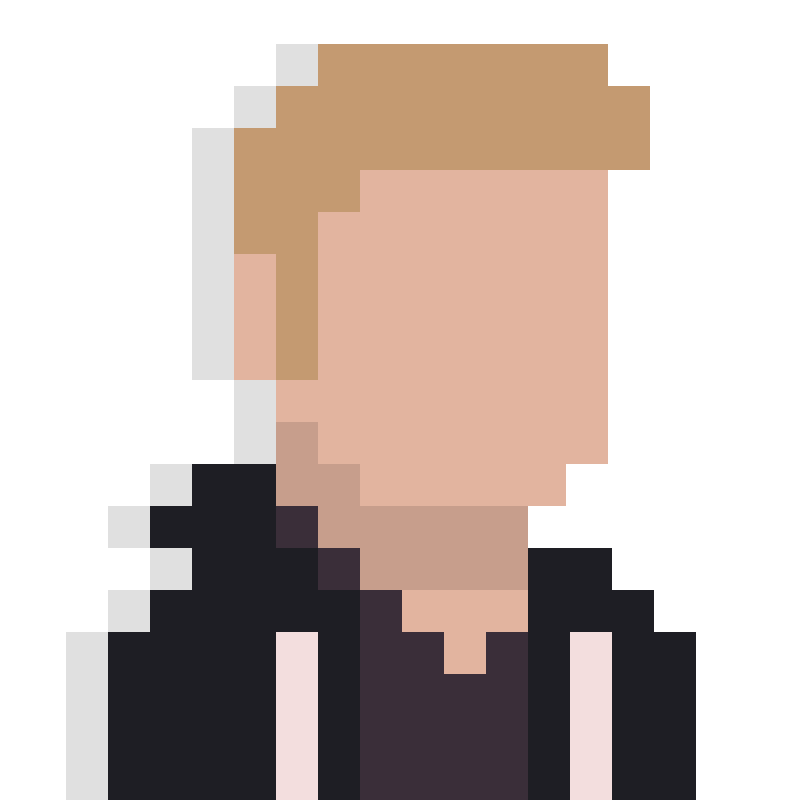
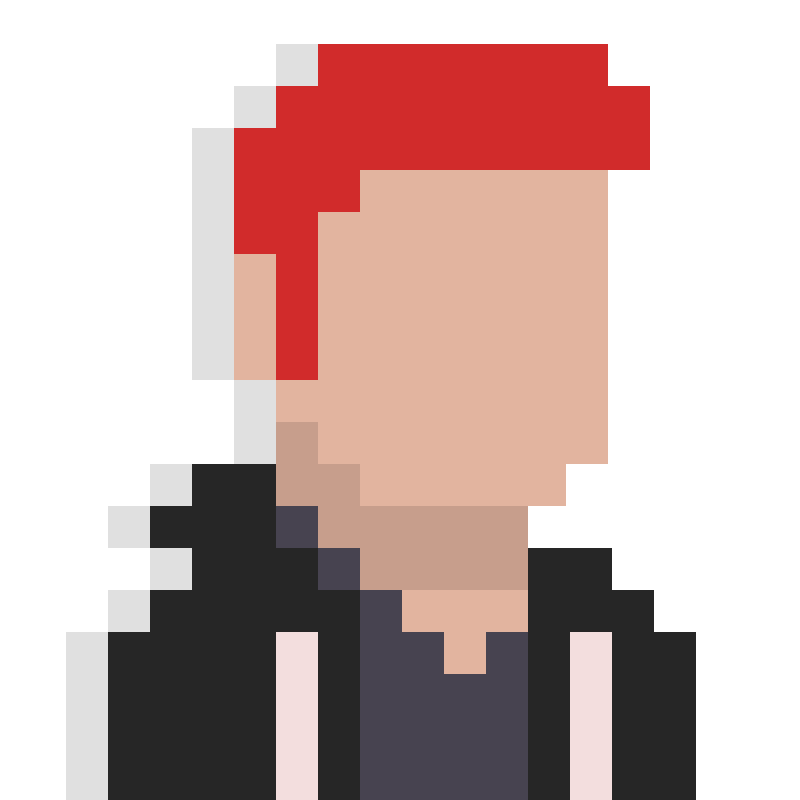
Change color pallette.

Changed region(s): [[0.2812, 0.0312, 0.8125, 0.5]]

diff --git a/style.min.css b/style.min.css
@@ -1,1 +1,1 @@
-@-webkit-keyframes walk{0%{transform:translateY(0)}100%{transform:translateY(6px)}}@keyframes walk{0%{transform:translateY(0)}100%{transform:translateY(6px)}}*{margin:0;padding:0;box-sizing:border-box}html,body{background-color:#FC8362;max-height:100vh}body{overflow:hidden;color:#3A2E39;font-family:"Hind Siliguri",sans-serif;display:flex;flex-direction:column}a{color:inherit;text-decoration:none}header{display:flex;padding:10px 23px;margin:20px 30px 0px 30px;text-transform:uppercase}header h1{padding:0 10px;font-size:1.8rem;border-bottom:1px solid rgba(57,46,56,0.9)}header nav{margin-left:auto;display:flex}header nav a:hover{text-decoration:underline}header li{display:inline-block;padding:8px;font-size:.8rem}section{flex:6;display:flex;flex-direction:column;align-items:flex-end;justify-content:center;overflow:hidden}section h1{font-size:6.5rem;line-height:1;text-align:right;padding:60px;white-space:nowrap}#avatar{position:absolute;left:0;bottom:0;width:450px;height:450px;-webkit-animation:walk .83s infinite alternate;animation:walk .83s infinite alternate}#avatar img{width:100%;height:100%}footer{flex:1}@media only screen and (min-width: 2744px){header h1{font-size:3.5rem}header li{font-size:1.5rem}section h1{font-size:11rem}#avatar{width:700px;height:700px}}@media only screen and (max-width: 2744px){header h1{font-size:3.2rem}header li{font-size:1.4rem}section h1{font-size:9rem}}@media only screen and (max-width: 2146px){header h1{font-size:2.5rem}header li{font-size:1.2rem}}@media only screen and (max-width: 1574px){section h1{font-size:5.5rem}header h1{font-size:2rem}header li{font-size:1.1rem}}@media only screen and (max-width: 1215px){#avatar{width:350px;height:350px}}@media only screen and (max-width: 1070px){section h1{font-size:4.5rem}#avatar{width:250px;height:250px}}@media only screen and (max-width: 815px){header h1{font-size:1.3rem}header li{font-size:.7rem}section h1{font-size:3.5rem}}@media only screen and (max-width: 706px){section h1{font-size:3rem}#avatar{width:200px;height:200px}}@media only screen and (max-width: 706px){section h1{font-size:4rem;padding-right:17px}#avatar{width:300px;height:300px}}@media only screen and (max-width: 545px){section h1{font-size:3.5rem}}@media only screen and (max-width: 477px){header{flex-direction:column;text-align:center;margin:30px 80px 0px 80px}header h1{font-size:1.8rem}header nav{margin:0 auto}section h1{font-size:3rem}#avatar{width:250px;height:250px}}@media only screen and (max-width: 443px){header{margin:0}header h1{border-bottom:none;margin-top:30px}section{flex:3}section h1{font-size:2.5rem}#avatar{width:250px;height:250px}}@media only screen and (max-width: 375px){section h1{font-size:2rem}#avatar{width:200px;height:200px}}@media only screen and (max-width: 312px){section h1{font-size:1.7rem}#avatar{width:150px;height:150px}}@media only screen and (max-width: 279px){header h1{white-space:nowrap}section h1{font-size:1.5rem}#avatar{width:120px;height:120px}}
+@-webkit-keyframes walk{0%{transform:translateY(0)}100%{transform:translateY(6px)}}@keyframes walk{0%{transform:translateY(0)}100%{transform:translateY(6px)}}*{margin:0;padding:0;box-sizing:border-box}html,body{background-color:#F05D5E;max-height:100vh}body{overflow:hidden;color:#262626;font-family:"Hind Siliguri",sans-serif;display:flex;flex-direction:column}a{color:inherit;text-decoration:none}header{display:flex;padding:10px 23px;margin:20px 30px 0px 30px;text-transform:uppercase}header h1{padding:0 10px;font-size:1.8rem;border-bottom:1px solid rgba(57,46,56,0.9)}header nav{margin-left:auto;display:flex}header nav a:hover{text-decoration:underline}header li{display:inline-block;padding:8px;font-size:.8rem}section{flex:6;display:flex;flex-direction:column;align-items:flex-end;justify-content:center;overflow:hidden}section h1{font-size:6.5rem;line-height:1;text-align:right;padding:60px;white-space:nowrap}#avatar{position:absolute;left:0;bottom:0;width:450px;height:450px;-webkit-animation:walk .83s infinite alternate;animation:walk .83s infinite alternate}#avatar img{width:100%;height:100%}footer{flex:1}@media only screen and (min-width: 2744px){header h1{font-size:3.5rem}header li{font-size:1.5rem}section h1{font-size:11rem}#avatar{width:700px;height:700px}}@media only screen and (max-width: 2744px){header h1{font-size:3.2rem}header li{font-size:1.4rem}section h1{font-size:9rem}}@media only screen and (max-width: 2146px){header h1{font-size:2.5rem}header li{font-size:1.2rem}}@media only screen and (max-width: 1574px){section h1{font-size:5.5rem}header h1{font-size:2rem}header li{font-size:1.1rem}}@media only screen and (max-width: 1215px){#avatar{width:350px;height:350px}}@media only screen and (max-width: 1070px){section h1{font-size:4.5rem}#avatar{width:250px;height:250px}}@media only screen and (max-width: 815px){header h1{font-size:1.3rem}header li{font-size:.7rem}section h1{font-size:3.5rem}}@media only screen and (max-width: 706px){section h1{font-size:3rem}#avatar{width:200px;height:200px}}@media only screen and (max-width: 706px){section h1{font-size:4rem;padding-right:17px}#avatar{width:300px;height:300px}}@media only screen and (max-width: 545px){section h1{font-size:3.5rem}}@media only screen and (max-width: 477px){header{flex-direction:column;text-align:center;margin:30px 80px 0px 80px}header h1{font-size:1.8rem}header nav{margin:0 auto}section h1{font-size:3rem}#avatar{width:250px;height:250px}}@media only screen and (max-width: 443px){header{margin:0}header h1{border-bottom:none;margin-top:30px}section{flex:3}section h1{font-size:2.5rem}#avatar{width:250px;height:250px}}@media only screen and (max-width: 375px){section h1{font-size:2rem}#avatar{width:200px;height:200px}}@media only screen and (max-width: 312px){section h1{font-size:1.7rem}#avatar{width:150px;height:150px}}@media only screen and (max-width: 279px){header h1{white-space:nowrap}section h1{font-size:1.5rem}#avatar{width:120px;height:120px}}

diff --git a/apps/style.min.css b/apps/style.min.css
@@ -1,1 +1,1 @@
-@-webkit-keyframes walk{0%{transform:translateY(0)}100%{transform:translateY(6px)}}@keyframes walk{0%{transform:translateY(0)}100%{transform:translateY(6px)}}*{margin:0;padding:0;box-sizing:border-box}html{background-color:#FC8362}body{height:100vh;overflow:hidden;background-color:#FC8362;color:#3A2E39;font-family:"Hind Siliguri",sans-serif;display:flex;flex-direction:column}a{color:inherit;text-decoration:none}header{display:flex;padding:10px 23px;margin:20px 30px 0px 30px;text-transform:uppercase}header h1{padding:0 10px;font-size:1.8rem;border-bottom:1px solid rgba(57,46,56,0.9)}header nav{margin-left:auto;display:flex}header nav a:hover{text-decoration:underline}header li{display:inline-block;padding:8px;font-size:.8rem}section{flex:6;display:flex;flex-direction:column;align-items:flex-end;justify-content:center;overflow:hidden}section a:hover{text-decoration:underline;list-style:circle}section h1{font-size:3rem;text-align:right;padding-right:60px;white-space:nowrap;line-height:1.5;font-weight:600}#avatar{position:absolute;left:0;bottom:0;width:450px;height:450px;-webkit-animation:walk .83s infinite alternate;animation:walk .83s infinite alternate}#avatar img{width:100%;height:100%}footer{flex:2}@media only screen and (min-width: 2744px){header h1{font-size:3.5rem}header li{font-size:1.5rem}#avatar{width:700px;height:700px}}@media only screen and (max-width: 2744px){header h1{font-size:3.2rem}header li{font-size:1.4rem}}@media only screen and (max-width: 2146px){header h1{font-size:2.5rem}header li{font-size:1.2rem}}@media only screen and (max-width: 1574px){header h1{font-size:2rem}header li{font-size:1.1rem}}@media only screen and (max-width: 1215px){#avatar{width:350px;height:350px}}@media only screen and (max-width: 1070px){section h1{font-size:2rem}#avatar{width:250px;height:250px}}@media only screen and (max-width: 815px){header h1{font-size:1.3rem}header li{font-size:.7rem}}@media only screen and (max-width: 706px){#avatar{width:200px;height:200px}}@media only screen and (max-width: 706px){section h1{padding-right:17px}#avatar{width:300px;height:300px}}@media only screen and (max-width: 477px){header{flex-direction:column;text-align:center;margin:30px 80px 0px 80px}header h1{font-size:1.8rem}header nav{margin:0 auto}#avatar{width:250px;height:250px}}@media only screen and (max-width: 443px){header{margin:0}header h1{border-bottom:none;margin-top:30px}#avatar{width:250px;height:250px}}@media only screen and (max-width: 375px){#avatar{width:200px;height:200px}}@media only screen and (max-width: 312px){#avatar{width:150px;height:150px}}@media only screen and (max-width: 279px){header h1{white-space:nowrap}#avatar{width:120px;height:120px}}
+@-webkit-keyframes walk{0%{transform:translateY(0)}100%{transform:translateY(6px)}}@keyframes walk{0%{transform:translateY(0)}100%{transform:translateY(6px)}}*{margin:0;padding:0;box-sizing:border-box}html{background-color:#F05D5E}body{height:100vh;overflow:hidden;background-color:#F05D5E;color:#262626;font-family:"Hind Siliguri",sans-serif;display:flex;flex-direction:column}a{color:inherit;text-decoration:none}header{display:flex;padding:10px 23px;margin:20px 30px 0px 30px;text-transform:uppercase}header h1{padding:0 10px;font-size:1.8rem;border-bottom:1px solid rgba(57,46,56,0.9)}header nav{margin-left:auto;display:flex}header nav a:hover{text-decoration:underline}header li{display:inline-block;padding:8px;font-size:.8rem}section{flex:6;display:flex;flex-direction:column;align-items:flex-end;justify-content:center;overflow:hidden}section a:hover{text-decoration:underline;list-style:circle}section h1{font-size:3rem;text-align:right;padding-right:60px;white-space:nowrap;line-height:1.5;font-weight:600}#avatar{position:absolute;left:0;bottom:0;width:450px;height:450px;-webkit-animation:walk .83s infinite alternate;animation:walk .83s infinite alternate}#avatar img{width:100%;height:100%}footer{flex:2}@media only screen and (min-width: 2744px){header h1{font-size:3.5rem}header li{font-size:1.5rem}#avatar{width:700px;height:700px}}@media only screen and (max-width: 2744px){header h1{font-size:3.2rem}header li{font-size:1.4rem}}@media only screen and (max-width: 2146px){header h1{font-size:2.5rem}header li{font-size:1.2rem}}@media only screen and (max-width: 1574px){header h1{font-size:2rem}header li{font-size:1.1rem}}@media only screen and (max-width: 1215px){#avatar{width:350px;height:350px}}@media only screen and (max-width: 1070px){section h1{font-size:2rem}#avatar{width:250px;height:250px}}@media only screen and (max-width: 815px){header h1{font-size:1.3rem}header li{font-size:.7rem}}@media only screen and (max-width: 706px){#avatar{width:200px;height:200px}}@media only screen and (max-width: 706px){section h1{padding-right:17px}#avatar{width:300px;height:300px}}@media only screen and (max-width: 477px){header{flex-direction:column;text-align:center;margin:30px 80px 0px 80px}header h1{font-size:1.8rem}header nav{margin:0 auto}#avatar{width:250px;height:250px}}@media only screen and (max-width: 443px){header{margin:0}header h1{border-bottom:none;margin-top:30px}#avatar{width:250px;height:250px}}@media only screen and (max-width: 375px){#avatar{width:200px;height:200px}}@media only screen and (max-width: 312px){#avatar{width:150px;height:150px}}@media only screen and (max-width: 279px){header h1{white-space:nowrap}#avatar{width:120px;height:120px}}

diff --git a/websites/style.min.css b/websites/style.min.css
@@ -1,1 +1,1 @@
-@-webkit-keyframes walk{0%{transform:translateY(0)}100%{transform:translateY(6px)}}@keyframes walk{0%{transform:translateY(0)}100%{transform:translateY(6px)}}*{margin:0;padding:0;box-sizing:border-box}html{background-color:#FC8362}body{height:100vh;overflow:hidden;background-color:#FC8362;color:#3A2E39;font-family:"Hind Siliguri",sans-serif;display:flex;flex-direction:column}a{color:inherit;text-decoration:none}header{display:flex;padding:10px 23px;margin:20px 30px 0px 30px;text-transform:uppercase}header h1{padding:0 10px;font-size:1.8rem;border-bottom:1px solid rgba(57,46,56,0.9)}header nav{margin-left:auto;display:flex}header nav a:hover{text-decoration:underline}header li{display:inline-block;padding:8px;font-size:.8rem}section{flex:6;display:flex;flex-direction:column;align-items:flex-end;justify-content:center;overflow:hidden}section a:hover{text-decoration:underline;list-style:circle}section h1{font-size:3rem;text-align:right;padding-right:60px;white-space:nowrap;line-height:1.5;font-weight:600}#avatar{position:absolute;left:0;bottom:0;width:450px;height:450px;-webkit-animation:walk .83s infinite alternate;animation:walk .83s infinite alternate}#avatar img{width:100%;height:100%}footer{flex:2}@media only screen and (min-width: 2744px){header h1{font-size:3.5rem}header li{font-size:1.5rem}#avatar{width:700px;height:700px}}@media only screen and (max-width: 2744px){header h1{font-size:3.2rem}header li{font-size:1.4rem}}@media only screen and (max-width: 2146px){header h1{font-size:2.5rem}header li{font-size:1.2rem}}@media only screen and (max-width: 1574px){header h1{font-size:2rem}header li{font-size:1.1rem}}@media only screen and (max-width: 1215px){#avatar{width:350px;height:350px}}@media only screen and (max-width: 1070px){section h1{font-size:2rem}#avatar{width:250px;height:250px}}@media only screen and (max-width: 815px){header h1{font-size:1.3rem}header li{font-size:.7rem}}@media only screen and (max-width: 706px){#avatar{width:200px;height:200px}}@media only screen and (max-width: 706px){section h1{padding-right:17px}#avatar{width:300px;height:300px}}@media only screen and (max-width: 477px){header{flex-direction:column;text-align:center;margin:30px 80px 0px 80px}header h1{font-size:1.8rem}header nav{margin:0 auto}#avatar{width:250px;height:250px}}@media only screen and (max-width: 443px){header{margin:0}header h1{border-bottom:none;margin-top:30px}#avatar{width:250px;height:250px}}@media only screen and (max-width: 375px){#avatar{width:200px;height:200px}}@media only screen and (max-width: 312px){#avatar{width:150px;height:150px}}@media only screen and (max-width: 279px){header h1{white-space:nowrap}#avatar{width:120px;height:120px}}
+@-webkit-keyframes walk{0%{transform:translateY(0)}100%{transform:translateY(6px)}}@keyframes walk{0%{transform:translateY(0)}100%{transform:translateY(6px)}}*{margin:0;padding:0;box-sizing:border-box}html{background-color:#F05D5E}body{height:100vh;overflow:hidden;background-color:#F05D5E;color:#262626;font-family:"Hind Siliguri",sans-serif;display:flex;flex-direction:column}a{color:inherit;text-decoration:none}header{display:flex;padding:10px 23px;margin:20px 30px 0px 30px;text-transform:uppercase}header h1{padding:0 10px;font-size:1.8rem;border-bottom:1px solid rgba(57,46,56,0.9)}header nav{margin-left:auto;display:flex}header nav a:hover{text-decoration:underline}header li{display:inline-block;padding:8px;font-size:.8rem}section{flex:6;display:flex;flex-direction:column;align-items:flex-end;justify-content:center;overflow:hidden}section a:hover{text-decoration:underline;list-style:circle}section h1{font-size:3rem;text-align:right;padding-right:60px;white-space:nowrap;line-height:1.5;font-weight:600}#avatar{position:absolute;left:0;bottom:0;width:450px;height:450px;-webkit-animation:walk .83s infinite alternate;animation:walk .83s infinite alternate}#avatar img{width:100%;height:100%}footer{flex:2}@media only screen and (min-width: 2744px){header h1{font-size:3.5rem}header li{font-size:1.5rem}#avatar{width:700px;height:700px}}@media only screen and (max-width: 2744px){header h1{font-size:3.2rem}header li{font-size:1.4rem}}@media only screen and (max-width: 2146px){header h1{font-size:2.5rem}header li{font-size:1.2rem}}@media only screen and (max-width: 1574px){header h1{font-size:2rem}header li{font-size:1.1rem}}@media only screen and (max-width: 1215px){#avatar{width:350px;height:350px}}@media only screen and (max-width: 1070px){section h1{font-size:2rem}#avatar{width:250px;height:250px}}@media only screen and (max-width: 815px){header h1{font-size:1.3rem}header li{font-size:.7rem}}@media only screen and (max-width: 706px){#avatar{width:200px;height:200px}}@media only screen and (max-width: 706px){section h1{padding-right:17px}#avatar{width:300px;height:300px}}@media only screen and (max-width: 477px){header{flex-direction:column;text-align:center;margin:30px 80px 0px 80px}header h1{font-size:1.8rem}header nav{margin:0 auto}#avatar{width:250px;height:250px}}@media only screen and (max-width: 443px){header{margin:0}header h1{border-bottom:none;margin-top:30px}#avatar{width:250px;height:250px}}@media only screen and (max-width: 375px){#avatar{width:200px;height:200px}}@media only screen and (max-width: 312px){#avatar{width:150px;height:150px}}@media only screen and (max-width: 279px){header h1{white-space:nowrap}#avatar{width:120px;height:120px}}

diff --git a/contact/style.min.css b/contact/style.min.css
@@ -1,1 +1,1 @@
-@-webkit-keyframes walk{0%{transform:translateY(0)}100%{transform:translateY(6px)}}@keyframes walk{0%{transform:translateY(0)}100%{transform:translateY(6px)}}*{margin:0;padding:0;box-sizing:border-box}html{background-color:#FC8362}body{height:100vh;overflow:hidden;background-color:#FC8362;color:#3A2E39;font-family:"Hind Siliguri",sans-serif;display:flex;flex-direction:column}a{color:inherit;text-decoration:none}header{display:flex;padding:10px 23px;margin:20px 30px 0px 30px;text-transform:uppercase}header h1{padding:0 10px;font-size:1.8rem;border-bottom:1px solid rgba(57,46,56,0.9)}header nav{margin-left:auto;display:flex}header nav a:hover{text-decoration:underline}header li{display:inline-block;padding:8px;font-size:.8rem}section{flex:6;display:flex;flex-direction:column;align-items:flex-end;justify-content:center;overflow:hidden}section a:hover{text-decoration:underline}section h1{font-size:3rem;text-align:right;padding-right:60px;white-space:nowrap;line-height:1.5;font-weight:600}#avatar{position:absolute;left:0;bottom:0;width:450px;height:450px;-webkit-animation:walk .83s infinite alternate;animation:walk .83s infinite alternate}#avatar img{width:100%;height:100%}footer{flex:2}@media only screen and (min-width: 2744px){header h1{font-size:3.5rem}header li{font-size:1.5rem}#avatar{width:700px;height:700px}}@media only screen and (max-width: 2744px){header h1{font-size:3.2rem}header li{font-size:1.4rem}}@media only screen and (max-width: 2146px){header h1{font-size:2.5rem}header li{font-size:1.2rem}}@media only screen and (max-width: 1574px){header h1{font-size:2rem}header li{font-size:1.1rem}}@media only screen and (max-width: 1215px){#avatar{width:350px;height:350px}}@media only screen and (max-width: 1070px){section h1{font-size:2rem}#avatar{width:250px;height:250px}}@media only screen and (max-width: 815px){header h1{font-size:1.3rem}header li{font-size:.7rem}}@media only screen and (max-width: 706px){#avatar{width:200px;height:200px}}@media only screen and (max-width: 706px){section h1{padding-right:17px}#avatar{width:300px;height:300px}}@media only screen and (max-width: 477px){header{flex-direction:column;text-align:center;margin:30px 80px 0px 80px}header h1{font-size:1.8rem}header nav{margin:0 auto}#avatar{width:250px;height:250px}}@media only screen and (max-width: 443px){header{margin:0}header h1{border-bottom:none;margin-top:30px}#avatar{width:250px;height:250px}}@media only screen and (max-width: 375px){#avatar{width:200px;height:200px}}@media only screen and (max-width: 312px){#avatar{width:150px;height:150px}}@media only screen and (max-width: 279px){header h1{white-space:nowrap}#avatar{width:120px;height:120px}}
+@-webkit-keyframes walk{0%{transform:translateY(0)}100%{transform:translateY(6px)}}@keyframes walk{0%{transform:translateY(0)}100%{transform:translateY(6px)}}*{margin:0;padding:0;box-sizing:border-box}html{background-color:#F05D5E}body{height:100vh;overflow:hidden;background-color:#F05D5E;color:#262626;font-family:"Hind Siliguri",sans-serif;display:flex;flex-direction:column}a{color:inherit;text-decoration:none}header{display:flex;padding:10px 23px;margin:20px 30px 0px 30px;text-transform:uppercase}header h1{padding:0 10px;font-size:1.8rem;border-bottom:1px solid rgba(57,46,56,0.9)}header nav{margin-left:auto;display:flex}header nav a:hover{text-decoration:underline}header li{display:inline-block;padding:8px;font-size:.8rem}section{flex:6;display:flex;flex-direction:column;align-items:flex-end;justify-content:center;overflow:hidden}section a:hover{text-decoration:underline}section h1{font-size:3rem;text-align:right;padding-right:60px;white-space:nowrap;line-height:1.5;font-weight:600}#avatar{position:absolute;left:0;bottom:0;width:450px;height:450px;-webkit-animation:walk .83s infinite alternate;animation:walk .83s infinite alternate}#avatar img{width:100%;height:100%}footer{flex:2}@media only screen and (min-width: 2744px){header h1{font-size:3.5rem}header li{font-size:1.5rem}#avatar{width:700px;height:700px}}@media only screen and (max-width: 2744px){header h1{font-size:3.2rem}header li{font-size:1.4rem}}@media only screen and (max-width: 2146px){header h1{font-size:2.5rem}header li{font-size:1.2rem}}@media only screen and (max-width: 1574px){header h1{font-size:2rem}header li{font-size:1.1rem}}@media only screen and (max-width: 1215px){#avatar{width:350px;height:350px}}@media only screen and (max-width: 1070px){section h1{font-size:2rem}#avatar{width:250px;height:250px}}@media only screen and (max-width: 815px){header h1{font-size:1.3rem}header li{font-size:.7rem}}@media only screen and (max-width: 706px){#avatar{width:200px;height:200px}}@media only screen and (max-width: 706px){section h1{padding-right:17px}#avatar{width:300px;height:300px}}@media only screen and (max-width: 477px){header{flex-direction:column;text-align:center;margin:30px 80px 0px 80px}header h1{font-size:1.8rem}header nav{margin:0 auto}#avatar{width:250px;height:250px}}@media only screen and (max-width: 443px){header{margin:0}header h1{border-bottom:none;margin-top:30px}#avatar{width:250px;height:250px}}@media only screen and (max-width: 375px){#avatar{width:200px;height:200px}}@media only screen and (max-width: 312px){#avatar{width:150px;height:150px}}@media only screen and (max-width: 279px){header h1{white-space:nowrap}#avatar{width:120px;height:120px}}

diff --git a/photography/style.min.css b/photography/style.min.css
@@ -1,1 +1,1 @@
-@-webkit-keyframes walk{0%{transform:translateY(0)}100%{transform:translateY(6px)}}@keyframes walk{0%{transform:translateY(0)}100%{transform:translateY(6px)}}*{margin:0;padding:0;box-sizing:border-box}html{background-color:#FC8362}body{height:100vh;overflow:hidden;background-color:#FC8362;color:#3A2E39;font-family:"Hind Siliguri",sans-serif;display:flex;flex-direction:column}a{color:inherit;text-decoration:none}header{display:flex;padding:10px 23px;margin:20px 30px 0px 30px;text-transform:uppercase}header h1{padding:0 10px;font-size:1.8rem;border-bottom:1px solid rgba(57,46,56,0.9)}header nav{margin-left:auto;display:flex}header nav a:hover{text-decoration:underline}header li{display:inline-block;padding:8px;font-size:.8rem}section{flex:6;display:flex;flex-direction:column;align-items:flex-end;justify-content:center;overflow:hidden}section a:hover{text-decoration:underline}section h1{font-size:3rem;text-align:right;padding-right:60px;white-space:nowrap;line-height:1.5;font-weight:600}#avatar{position:absolute;left:0;bottom:0;width:450px;height:450px;-webkit-animation:walk .83s infinite alternate;animation:walk .83s infinite alternate}#avatar img{width:100%;height:100%}footer{flex:2}@media only screen and (min-width: 2744px){header h1{font-size:3.5rem}header li{font-size:1.5rem}#avatar{width:700px;height:700px}}@media only screen and (max-width: 2744px){header h1{font-size:3.2rem}header li{font-size:1.4rem}}@media only screen and (max-width: 2146px){header h1{font-size:2.5rem}header li{font-size:1.2rem}}@media only screen and (max-width: 1574px){header h1{font-size:2rem}header li{font-size:1.1rem}}@media only screen and (max-width: 1215px){#avatar{width:350px;height:350px}}@media only screen and (max-width: 1070px){section h1{font-size:2rem}#avatar{width:250px;height:250px}}@media only screen and (max-width: 815px){header h1{font-size:1.3rem}header li{font-size:.7rem}}@media only screen and (max-width: 706px){#avatar{width:200px;height:200px}}@media only screen and (max-width: 706px){section h1{padding-right:17px}#avatar{width:300px;height:300px}}@media only screen and (max-width: 477px){header{flex-direction:column;text-align:center;margin:30px 80px 0px 80px}header h1{font-size:1.8rem}header nav{margin:0 auto}#avatar{width:250px;height:250px}}@media only screen and (max-width: 443px){header{margin:0}header h1{border-bottom:none;margin-top:30px}#avatar{width:250px;height:250px}}@media only screen and (max-width: 375px){#avatar{width:200px;height:200px}}@media only screen and (max-width: 312px){#avatar{width:150px;height:150px}}@media only screen and (max-width: 279px){header h1{white-space:nowrap}#avatar{width:120px;height:120px}}
+@-webkit-keyframes walk{0%{transform:translateY(0)}100%{transform:translateY(6px)}}@keyframes walk{0%{transform:translateY(0)}100%{transform:translateY(6px)}}*{margin:0;padding:0;box-sizing:border-box}html{background-color:#F05D5E}body{height:100vh;overflow:hidden;background-color:#F05D5E;color:#262626;font-family:"Hind Siliguri",sans-serif;display:flex;flex-direction:column}a{color:inherit;text-decoration:none}header{display:flex;padding:10px 23px;margin:20px 30px 0px 30px;text-transform:uppercase}header h1{padding:0 10px;font-size:1.8rem;border-bottom:1px solid rgba(57,46,56,0.9)}header nav{margin-left:auto;display:flex}header nav a:hover{text-decoration:underline}header li{display:inline-block;padding:8px;font-size:.8rem}section{flex:6;display:flex;flex-direction:column;align-items:flex-end;justify-content:center;overflow:hidden}section a:hover{text-decoration:underline}section h1{font-size:3rem;text-align:right;padding-right:60px;white-space:nowrap;line-height:1.5;font-weight:600}#avatar{position:absolute;left:0;bottom:0;width:450px;height:450px;-webkit-animation:walk .83s infinite alternate;animation:walk .83s infinite alternate}#avatar img{width:100%;height:100%}footer{flex:2}@media only screen and (min-width: 2744px){header h1{font-size:3.5rem}header li{font-size:1.5rem}#avatar{width:700px;height:700px}}@media only screen and (max-width: 2744px){header h1{font-size:3.2rem}header li{font-size:1.4rem}}@media only screen and (max-width: 2146px){header h1{font-size:2.5rem}header li{font-size:1.2rem}}@media only screen and (max-width: 1574px){header h1{font-size:2rem}header li{font-size:1.1rem}}@media only screen and (max-width: 1215px){#avatar{width:350px;height:350px}}@media only screen and (max-width: 1070px){section h1{font-size:2rem}#avatar{width:250px;height:250px}}@media only screen and (max-width: 815px){header h1{font-size:1.3rem}header li{font-size:.7rem}}@media only screen and (max-width: 706px){#avatar{width:200px;height:200px}}@media only screen and (max-width: 706px){section h1{padding-right:17px}#avatar{width:300px;height:300px}}@media only screen and (max-width: 477px){header{flex-direction:column;text-align:center;margin:30px 80px 0px 80px}header h1{font-size:1.8rem}header nav{margin:0 auto}#avatar{width:250px;height:250px}}@media only screen and (max-width: 443px){header{margin:0}header h1{border-bottom:none;margin-top:30px}#avatar{width:250px;height:250px}}@media only screen and (max-width: 375px){#avatar{width:200px;height:200px}}@media only screen and (max-width: 312px){#avatar{width:150px;height:150px}}@media only screen and (max-width: 279px){header h1{white-space:nowrap}#avatar{width:120px;height:120px}}

diff --git a/apps/style.scss b/apps/style.scss
@@ -1,7 +1,5 @@
-$background-color: #FC8362;
-$offwhite: #EFEFD0;
-$accent: #FF8552;
-$text: #3A2E39;
+$background-color: #F05D5E;
+$text: #262626;
 $font: "Hind Siliguri", sans-serif;
 
 @-webkit-keyframes walk

diff --git a/contact/style.scss b/contact/style.scss
@@ -1,7 +1,5 @@
-$background-color: #FC8362;
-$offwhite: #EFEFD0;
-$accent: #FF8552;
-$text: #3A2E39;
+$background-color: #F05D5E;
+$text: #262626;
 $font: "Hind Siliguri", sans-serif;
 
 @-webkit-keyframes walk

diff --git a/photography/style.scss b/photography/style.scss
@@ -1,7 +1,5 @@
-$background-color: #FC8362;
-$offwhite: #EFEFD0;
-$accent: #FF8552;
-$text: #3A2E39;
+$background-color: #F05D5E;
+$text: #262626;
 $font: "Hind Siliguri", sans-serif;
 
 @-webkit-keyframes walk

diff --git a/style.scss b/style.scss
@@ -1,7 +1,5 @@
-$background-color: #FC8362;
-$offwhite: #EFEFD0;
-$accent: #FF8552;
-$text: #3A2E39;
+$background-color: #F05D5E;
+$text: #262626;
 $font: "Hind Siliguri", sans-serif;
 
 @-webkit-keyframes walk

diff --git a/websites/style.scss b/websites/style.scss
@@ -1,7 +1,5 @@
-$background-color: #FC8362;
-$offwhite: #EFEFD0;
-$accent: #FF8552;
-$text: #3A2E39;
+$background-color: #F05D5E;
+$text: #262626;
 $font: "Hind Siliguri", sans-serif;
 
 @-webkit-keyframes walk
